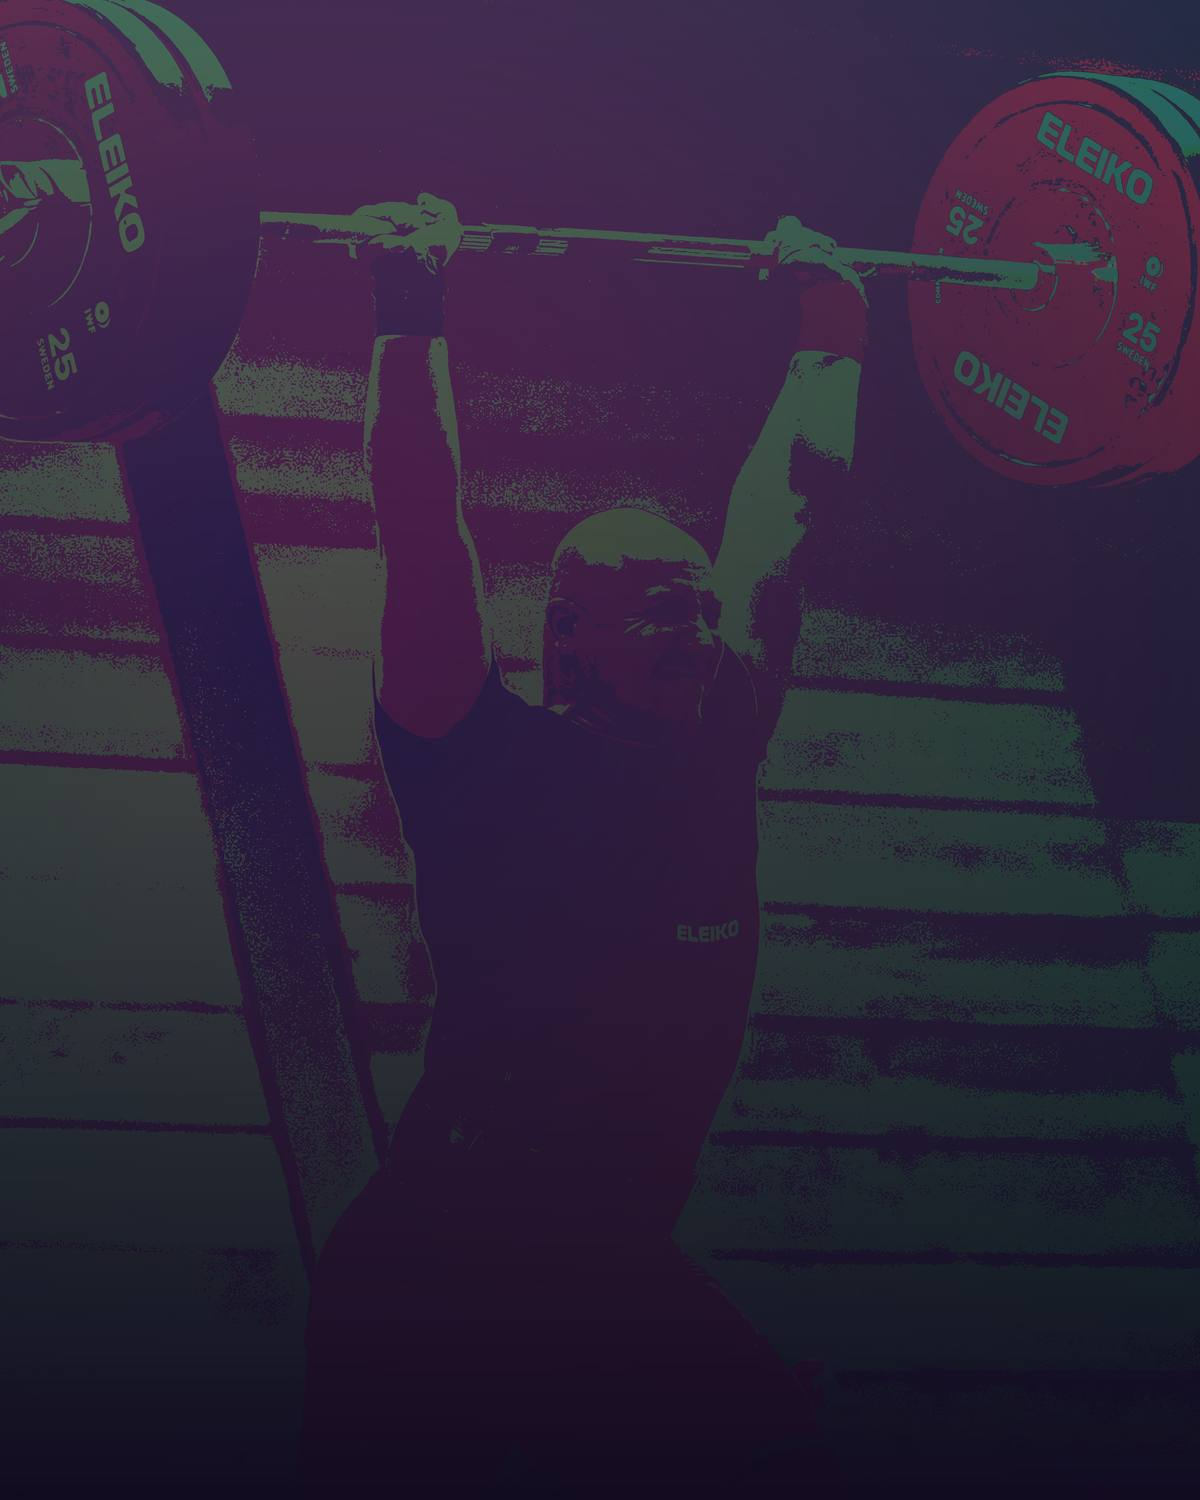
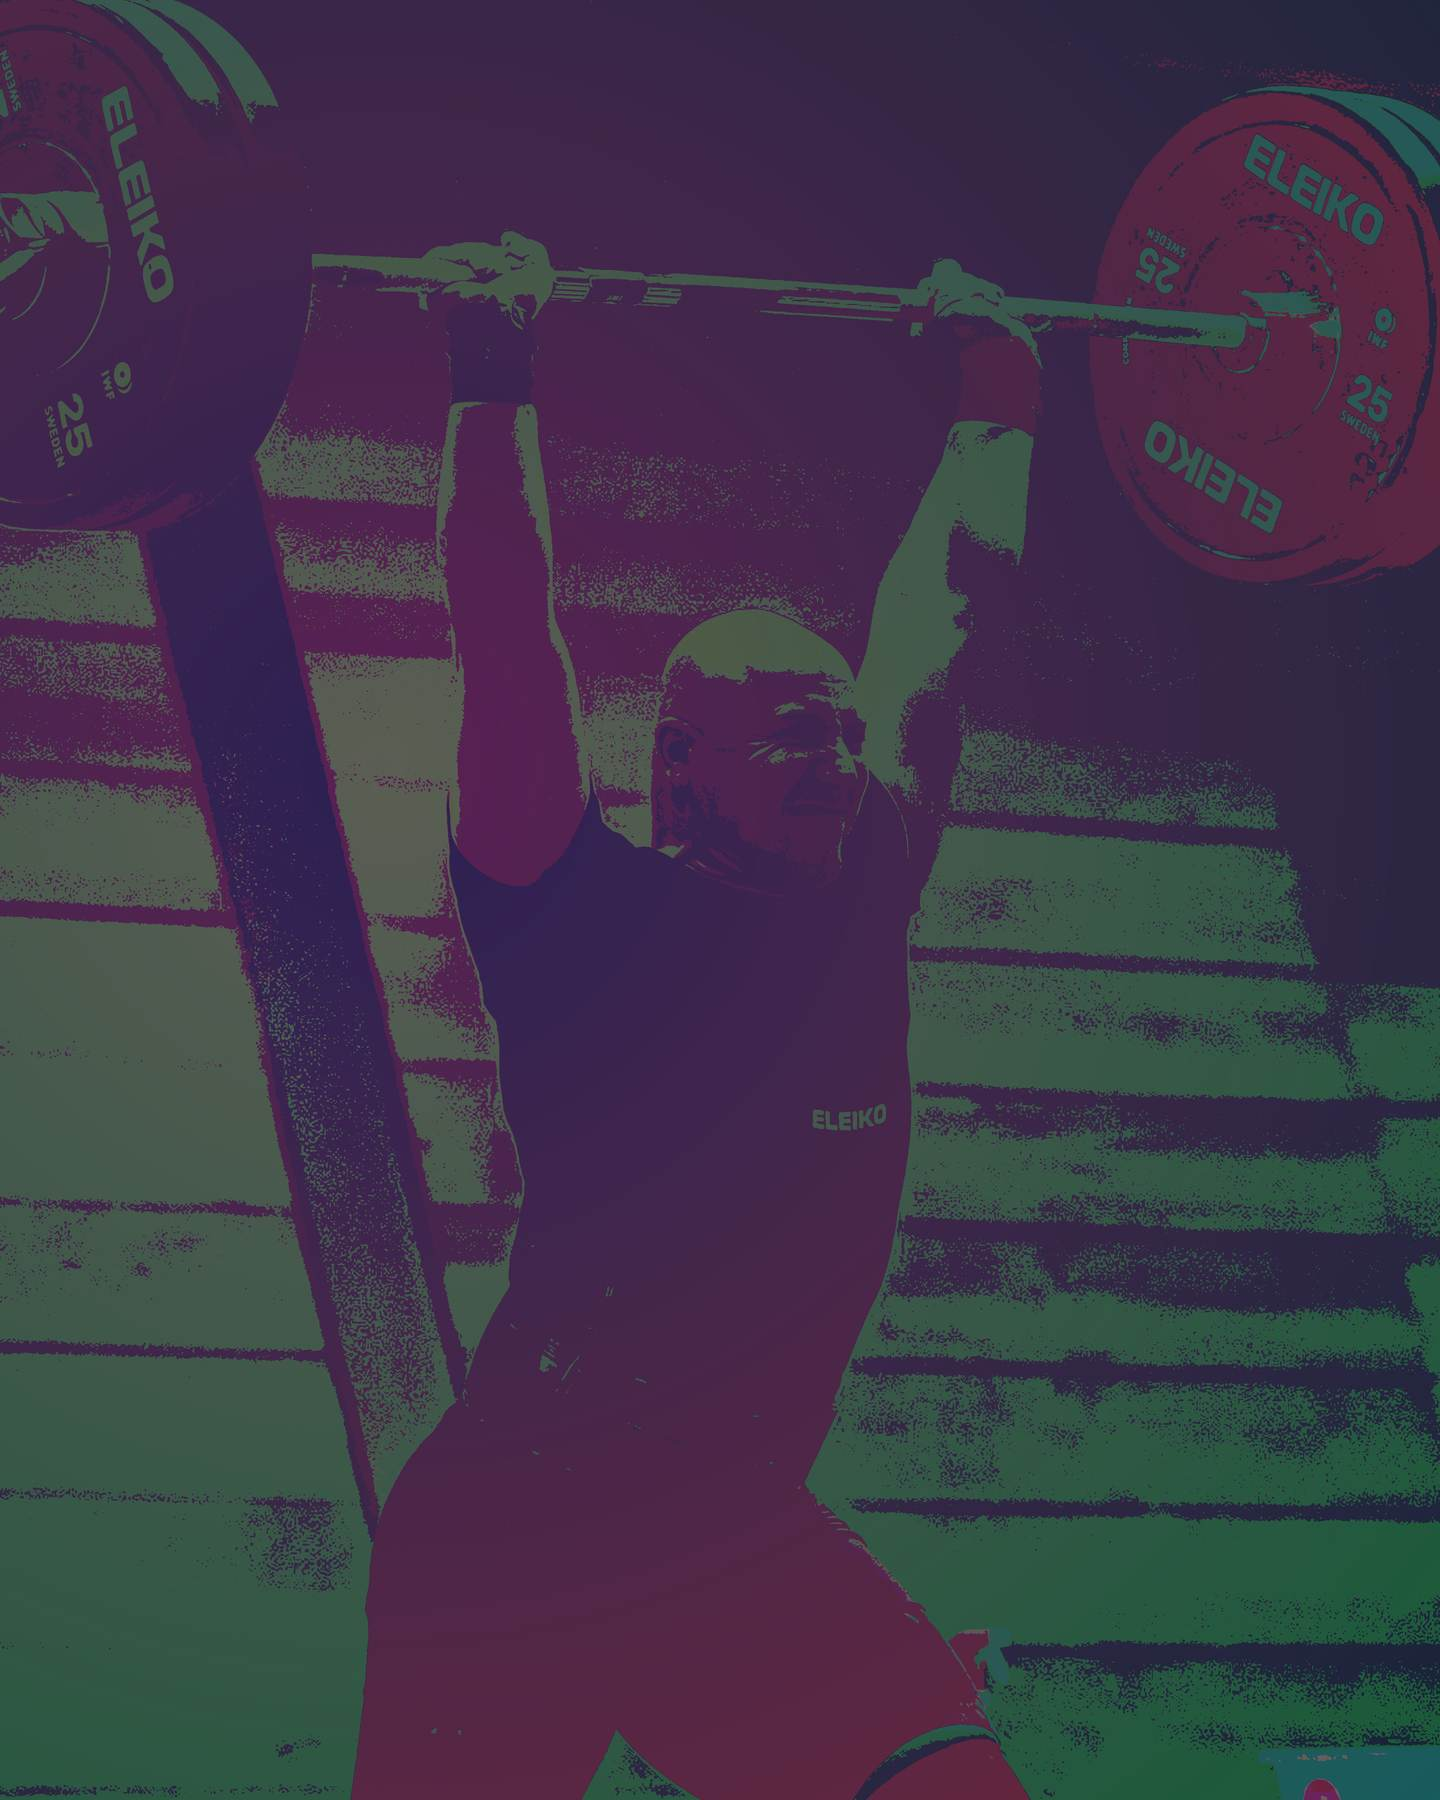
Fill the e-mail background with the artwork and use a pixel-font masthead
Gmail and Outlook drop web fonts, so the masthead is an image rendered
from Bitcount. The photo now covers the whole e-mail at any size.

diff --git a/api/_lib/templates.ts b/api/_lib/templates.ts
@@ -184,6 +184,7 @@ function render({ language, subject, intro, highlight, sections, access }: Email
   const t = copy[language]
   const origin = siteOrigin()
   const background = escape(`${origin}/email/background.jpg`)
+  const masthead = escape(`${origin}/email/masthead.png`)
   const when = [
     event.dates && formatEventDates(event.dates, language),
     event.venue[language],
@@ -202,7 +203,9 @@ function render({ language, subject, intro, highlight, sections, access }: Email
     : ''
 
   // Tables and inline styles, because that is what e-mail clients render reliably.
-  // Clients without background images (Outlook on Windows) show the solid violet.
+  // The artwork covers the whole e-mail at any size, like the site's hero; clients without background images (Outlook on
+  // Windows) show the solid violet. Gmail drops web fonts, so the pixel-font masthead
+  // is an image (public/email/masthead.png, rendered from Bitcount at weight 450).
   const html = `<!doctype html>
 <html lang="${language}">
 <head>
@@ -226,15 +229,14 @@ function render({ language, subject, intro, highlight, sections, access }: Email
 <body style="margin:0;padding:0;background-color:${colors.page};-webkit-text-size-adjust:100%">
 <div style="display:none;max-height:0;overflow:hidden;mso-hide:all">${escape(preheader)}</div>
 <table ${table} bgcolor="${colors.page}" style="background-color:${colors.page}">
-<tr><td align="center">
+<tr><td class="art" align="center" background="${background}" bgcolor="${colors.page}" style="background-color:${colors.page};background-image:url('${background}');background-position:center 25%;background-size:cover;background-repeat:no-repeat">
 <table role="presentation" width="600" cellpadding="0" cellspacing="0" border="0" style="width:100%;max-width:600px">
-<tr><td class="frame" background="${background}" bgcolor="${colors.page}" style="padding:44px 16px 24px;background-color:${colors.page};background-image:url('${background}');background-position:center top;background-size:100% auto;background-repeat:no-repeat;font-family:${sans}">
+<tr><td class="frame" style="padding:44px 16px 24px;font-family:${sans}">
 
 <table ${table}>
 <tr><td class="masthead" style="padding:0 16px 132px;color:${colors.heroInk}">
-<p style="margin:0 0 18px;font:600 11px/1 ${sans};letter-spacing:0.12em;text-transform:uppercase;color:${colors.lime}">CWO ${event.year}</p>
-<p style="margin:0;font:500 30px/1.1 ${display};letter-spacing:-0.02em;color:${colors.heroInk}">${escape(event.name.toUpperCase())}</p>
-<p style="margin:14px 0 0;font:400 14px/1.5 ${sans};color:${colors.heroMuted}">${escape(when)}</p>
+<img src="${masthead}" width="463" alt="${escape(`CWO ${event.year} · ${event.name}`)}" style="display:block;width:100%;max-width:463px;height:auto;border:0;font:500 26px/1.2 ${sans};color:${colors.heroInk}" />
+<p style="margin:16px 0 0;font:400 14px/1.5 ${sans};color:${colors.heroMuted}">${escape(when)}</p>
 </td></tr>
 </table>
 
